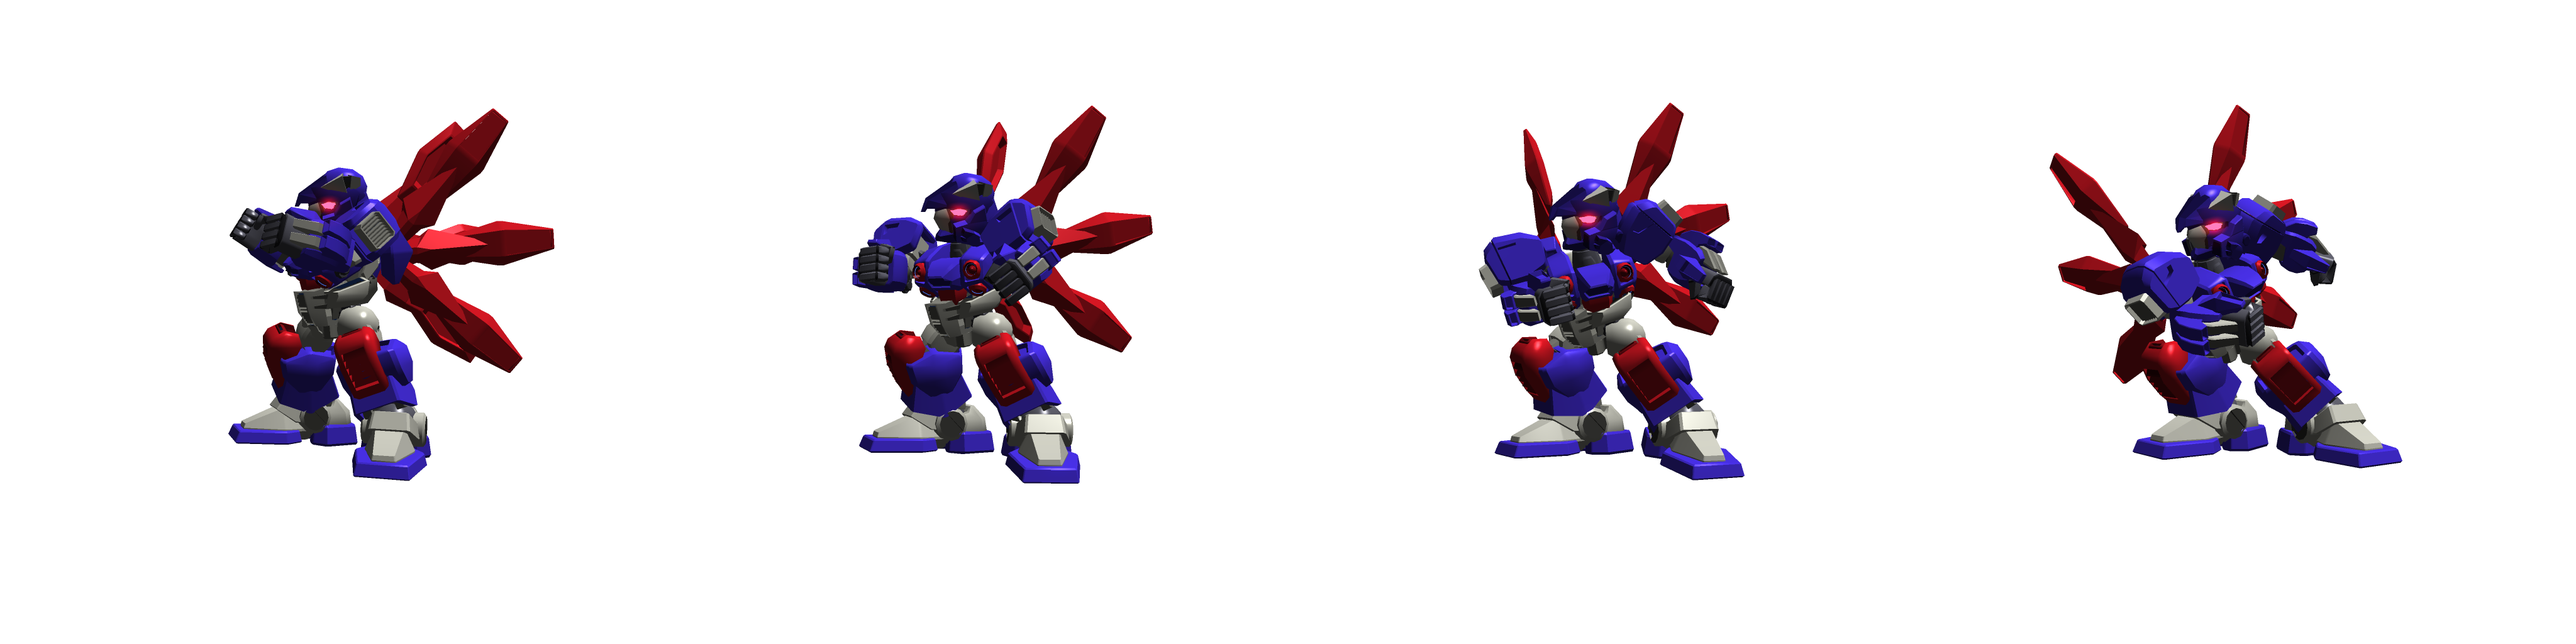
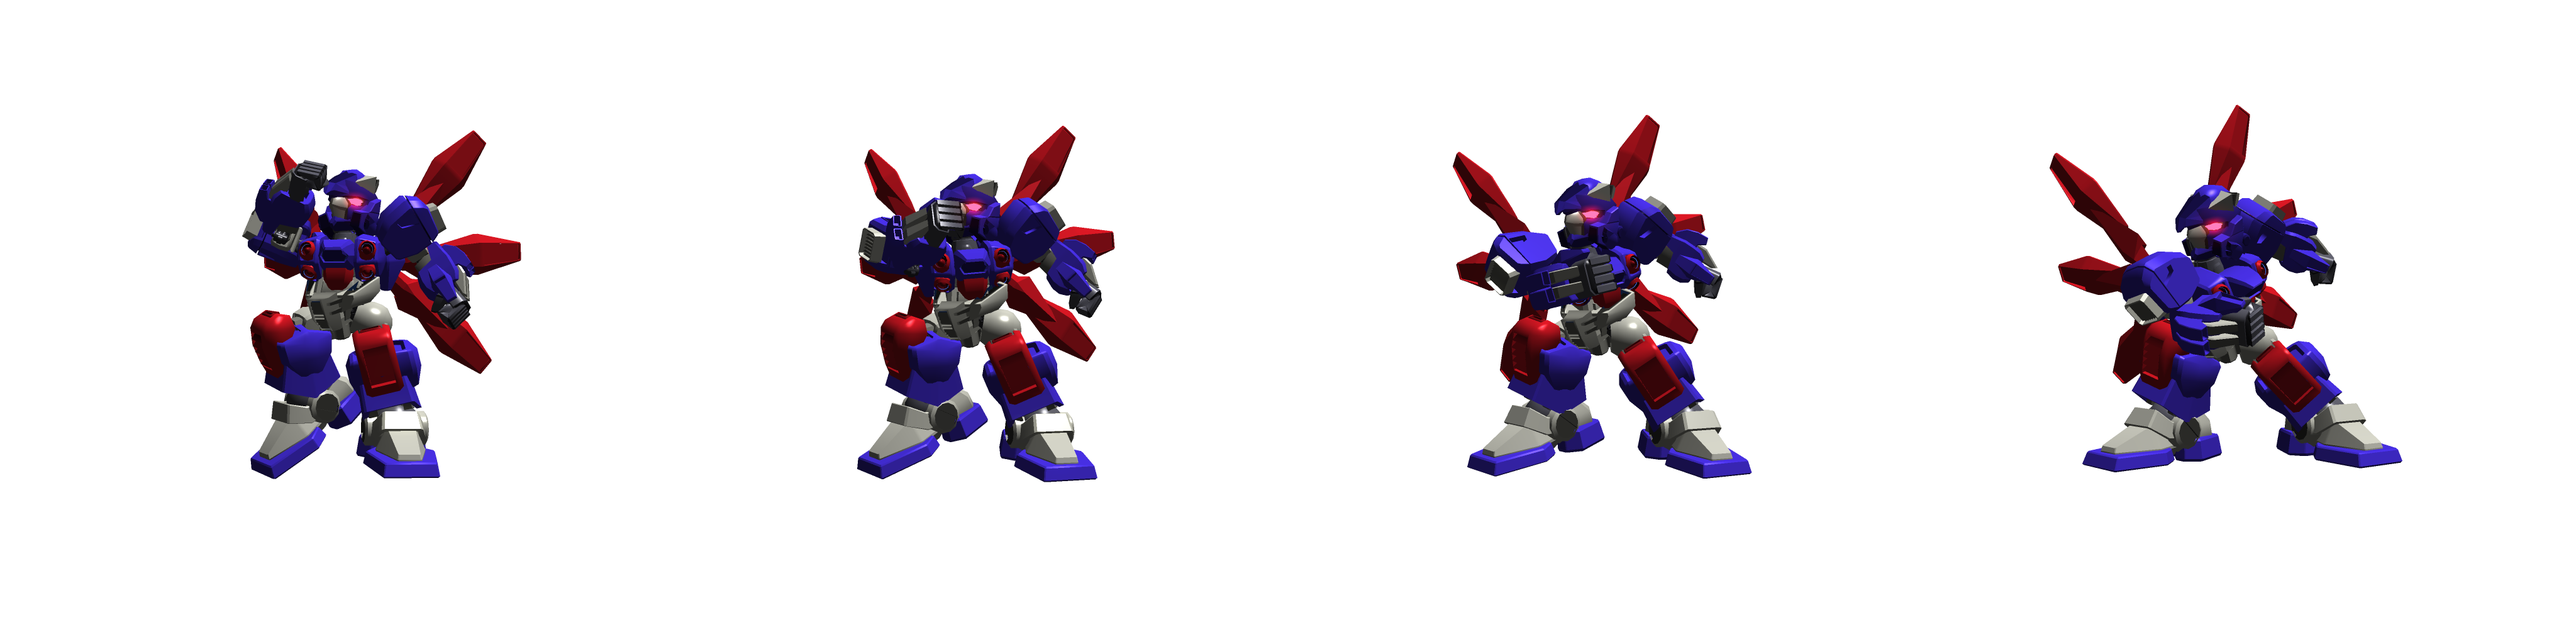
ダッシュ -> 立ちを追加した

diff --git a/src/js/game-object/armdozer/wing-dozer/view/player-wing-dozer-view.js b/src/js/game-object/armdozer/wing-dozer/view/player-wing-dozer-view.js
@@ -12,6 +12,7 @@ import {wingDozerUpperAttack} from "../mesh/upper-attack";
 import {wingDozerUpperToStand} from "../mesh/upper-to-stand";
 import {wingDozerDashUp} from "../mesh/dash-up";
 import {wingDozerDashDown} from "../mesh/dash-down";
+import {wingDozerDashToStand} from "../mesh/dash-to-stand";
 
 /**
  * プレイヤー側 ウィングドーザ ビュー
@@ -23,6 +24,7 @@ export class PlayerWingDozerView implements WingDozerView{
   _upperToStand: ArmdozerAnimation;
   _dashUp: ArmdozerAnimation;
   _dashDown: ArmdozerAnimation;
+  _dashToStand: ArmdozerAnimation;
   _group: THREE.Group;
 
   /**
@@ -37,6 +39,7 @@ export class PlayerWingDozerView implements WingDozerView{
     this._upperToStand = wingDozerUpperToStand(resources);
     this._dashUp = wingDozerDashUp(resources);
     this._dashDown = wingDozerDashDown(resources);
+    this._dashToStand = wingDozerDashToStand(resources);
 
     this._group = new Group();
     this._getAllMeshes().forEach(mesh => {
@@ -98,6 +101,7 @@ export class PlayerWingDozerView implements WingDozerView{
       this._upperToStand,
       this._dashUp,
       this._dashDown,
+      this._dashToStand,
     ];
   }
 
@@ -121,6 +125,8 @@ export class PlayerWingDozerView implements WingDozerView{
         return this._dashUp;
       case 'DASH_DOWN':
         return this._dashDown;
+      case 'DASH_TO_STAND':
+        return this._dashToStand;
       default:
         return this._stand;
     }

diff --git a/src/js/game-object/armdozer/wing-dozer/mesh/dash-to-stand.js b/src/js/game-object/armdozer/wing-dozer/mesh/dash-to-stand.js
@@ -1,0 +1,30 @@
+// @flow
+
+import type {ArmdozerAnimation} from "../../mesh/armdozer-animation";
+import type {Resources} from "../../../../resource";
+import {TEXTURE_IDS} from "../../../../resource/texture";
+import {HorizontalArmdozerAnimation} from "../../mesh/horizontal-animation";
+import {MESH_Y} from "./position";
+
+export const MESH_WIDTH = 600;
+export const MESH_HEIGHT = 600;
+export const MAX_ANIMATION = 8;
+
+/**
+ * ウィングドーザ ダッシュ -> 立ち
+ *
+ * @param resources リソース管理オブジェクト
+ * @return メッシュ
+ */
+export function wingDozerDashToStand(resources: Resources): ArmdozerAnimation {
+  const ret = new HorizontalArmdozerAnimation({
+    id: TEXTURE_IDS.WING_DOZER_DASH_TO_STAND,
+    maxAnimation: MAX_ANIMATION,
+    resources: resources,
+    width: MESH_WIDTH,
+    height: MESH_HEIGHT
+  });
+  const object = ret.getObject3D();
+  object.position.y = MESH_Y;
+  return ret;
+}

diff --git a/src/js/resource/texture.js b/src/js/resource/texture.js
@@ -61,6 +61,7 @@ export const TEXTURE_IDS = {
   WING_DOZER_UPPER_TO_STAND: 'WING_DOZER_UPPER_TO_STAND',
   WING_DOZER_DASH_UP: 'WING_DOZER_DASH_UP',
   WING_DOZER_DASH_DOWN: 'WING_DOZER_DASH_DOWN',
+  WING_DOZER_DASH_TO_STAND: 'WING_DOZER_DASH_TO_STAND',
   HITMARK_SHOCK_WAVE_LINE: 'HITMARK_SHOCK_WAVE_LINE',
   HITMARK_SHOCK_WAVE_RING: 'HITMARK_SHOCK_WAVE_RING',
   HITMARK_LIGHTNING_RING: 'HITMARK_LIGHTNING_RING',
@@ -247,6 +248,10 @@ export const TEXTURE_CONFIGS: TextureConfig[] = [
   {
     id: TEXTURE_IDS.WING_DOZER_DASH_DOWN,
     path: 'armdozer/wing-dozer/dash-down.png',
+  },
+  {
+    id: TEXTURE_IDS.WING_DOZER_DASH_TO_STAND,
+    path: 'armdozer/wing-dozer/dash-to-stand.png',
   },
   // ヒットマーク関連
   {

diff --git a/src/js/game-object/armdozer/wing-dozer/animation/dush-to-stand.js b/src/js/game-object/armdozer/wing-dozer/animation/dush-to-stand.js
@@ -13,15 +13,10 @@ import {process} from '../../../../animation/process';
  */
 export function dashToStand(model: WingDozerModel): Animate {
   return process(() => {
-    model.animation.type = 'DASH_DOWN';
-    model.animation.frame = 1;
+    model.animation.type = 'DASH_TO_STAND';
+    model.animation.frame = 0;
   })
-    .chain(tween(model.animation, t => t.to({frame: 0}, 300)))
-    .chain(process(() => {
-      model.animation.type = 'DASH_UP';
-      model.animation.frame = 1;
-    }))
-    .chain(tween(model.animation, t => t.to({frame: 0}, 300)))
+    .chain(tween(model.animation, t => t.to({frame: 1}, 600)))
     .chain(process(() => {
       model.animation.type = 'STAND';
       model.animation.frame = 0;

diff --git a/stories/wing-dozer.stories.js b/stories/wing-dozer.stories.js
@@ -41,3 +41,17 @@ export const attack = () => {
   stub.start();
   return stub.domElement();
 }
+
+export const turnStart = () => {
+  const stub = new TDGameObjectStub((resources, listener) => {
+    const sprite = PlayerWingDozer(resources, listener);
+    const animation = sprite.turnStart()
+      .chain(delay(2000))
+      .chain(sprite.turnStartToStand())
+      .chain(delay(2000));
+    animation.loop();
+    return [sprite.getObject3D()];
+  });
+  stub.start();
+  return stub.domElement();
+}

diff --git a/src/js/game-object/armdozer/wing-dozer/animation/dash.js b/src/js/game-object/armdozer/wing-dozer/animation/dash.js
@@ -17,8 +17,8 @@ export function dash(model: WingDozerModel): Animate {
     model.animation.type = 'DASH_UP';
     model.animation.frame = 0;
   })
-    .chain(tween(model.animation, t => t.to({frame: 1}, 300)))
-    .chain(delay(300))
+    .chain(tween(model.animation, t => t.to({frame: 1}, 200)))
+    .chain(delay(100))
     .chain(process(() => {
       model.animation.type = 'DASH_DOWN';
       model.animation.frame = 0;

diff --git a/src/js/game-object/armdozer/wing-dozer/model/wing-dozer-model.js b/src/js/game-object/armdozer/wing-dozer/model/wing-dozer-model.js
@@ -9,7 +9,8 @@ export type AnimationType =
   'UPPER_ATTACK' |
   'UPPER_TO_STAND' |
   'DASH_UP' |
-  'DASH_DOWN';
+  'DASH_DOWN' |
+  'DASH_TO_STAND';
 
 /**
  * ウィングドーザ モデル
